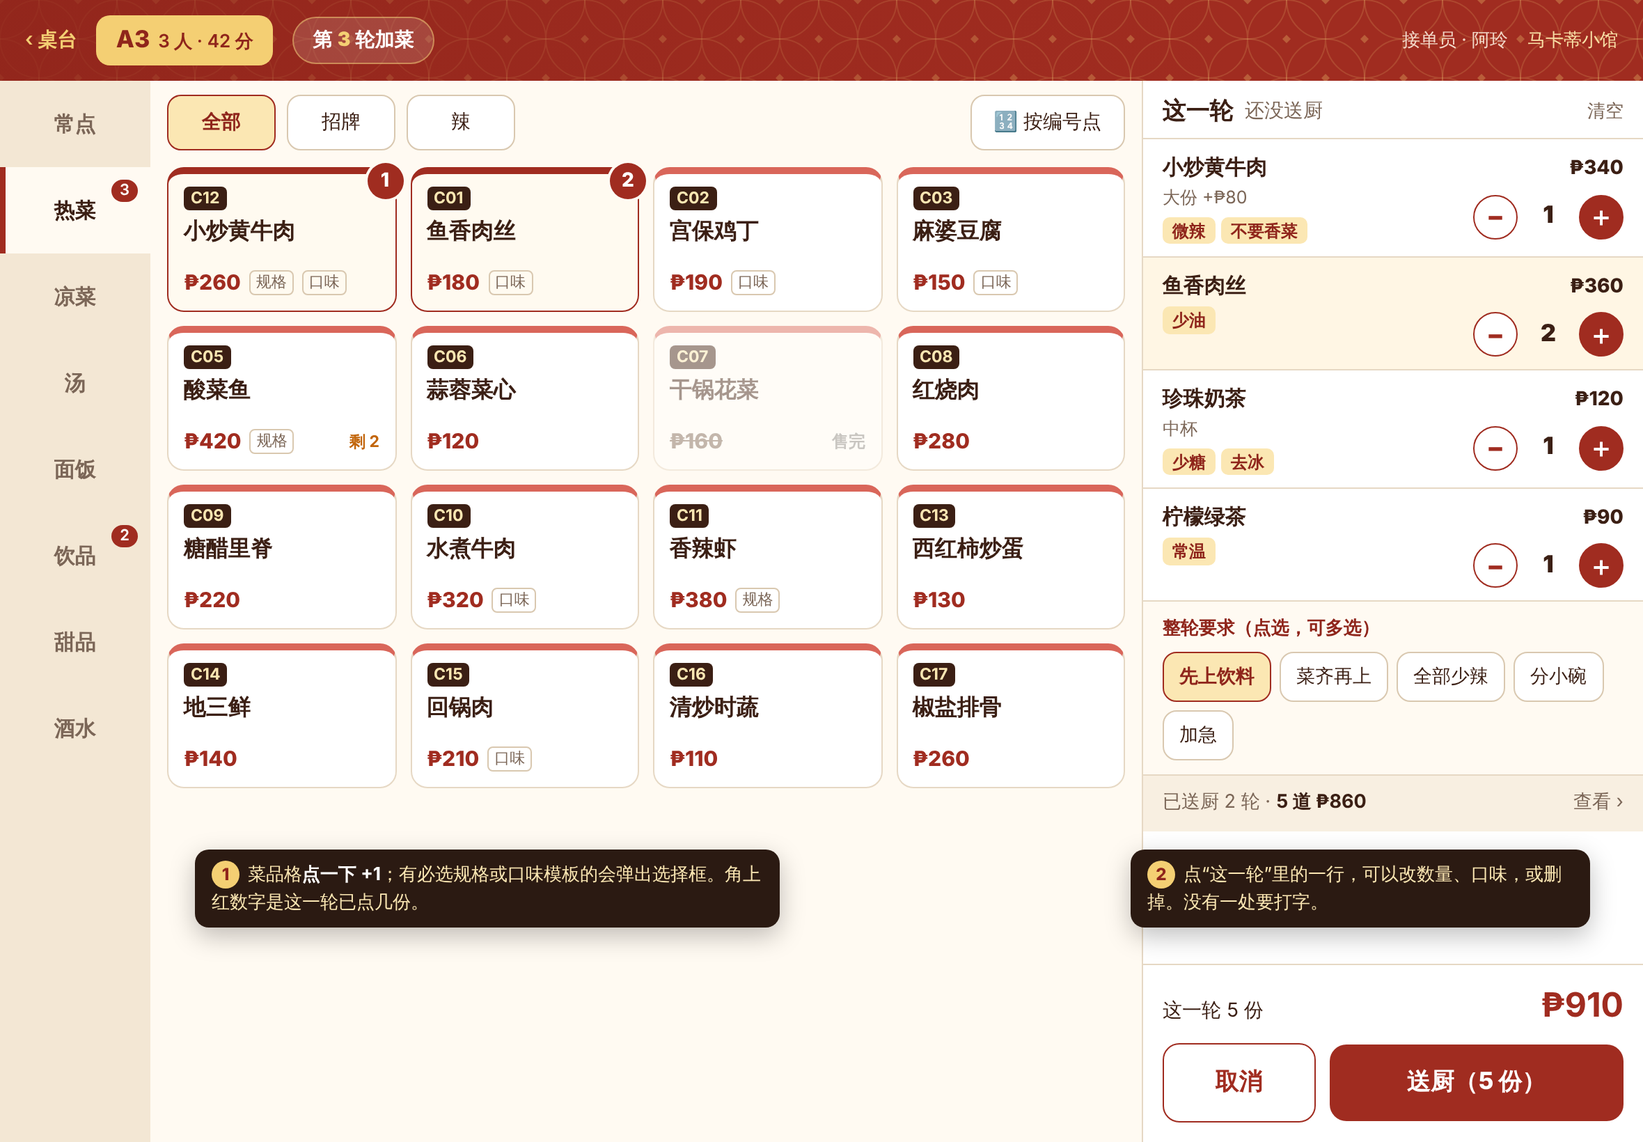
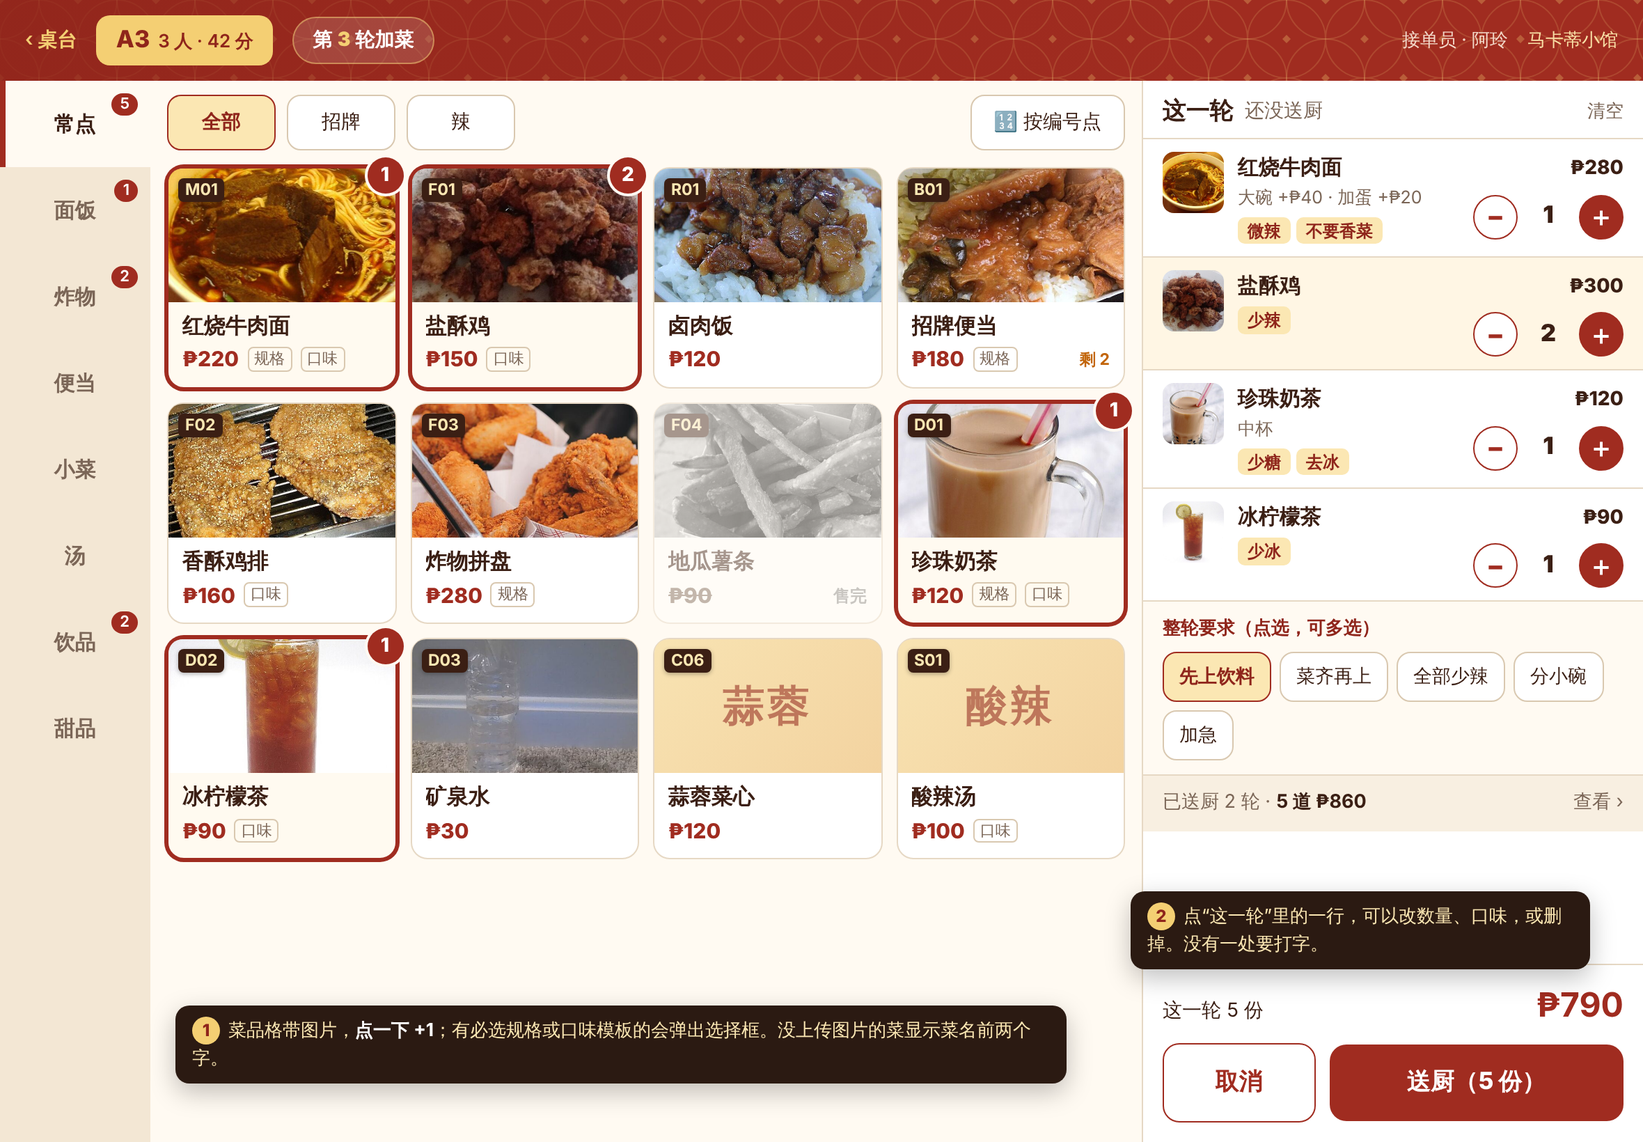
堂食模式方案：菜品格带图片
Claude-Session: https://claude.ai/code/session_0171QGWHhoGW3K3C5SJnC7j9

diff --git a/docs/dine-in-order-prototype/index.html b/docs/dine-in-order-prototype/index.html
@@ -202,6 +202,22 @@
   .note { position: absolute; z-index: 50; background: #2b1a12; color: #fbe7b3; font-size: 13px; line-height: 1.5; border-radius: 10px; padding: 8px 12px; box-shadow: 0 6px 18px rgba(0,0,0,.25); max-width: 300px; }
   .note b { color: #fff; }
   .note::before { content: attr(data-n); display: inline-grid; place-items: center; width: 20px; height: 20px; border-radius: 50%; background: var(--gold); color: var(--red-deep); font-weight: 800; font-size: 12px; margin-inline-end: 6px; }
+
+  /* 菜品格带图片 */
+  .dt { height: auto; padding: 0; border-top: 1.5px solid var(--line); overflow: visible; }
+  .dt .pic { height: 96px; border-radius: 10px 10px 0 0; background: #f3e7d4 center / cover no-repeat; }
+  .dt .pic.none { display: grid; place-items: center; background: linear-gradient(135deg, #f8e3b2, #f3d3a0); }
+  .dt .pic.none span { font-size: 30px; font-weight: 800; color: rgba(143,37,27,.55); letter-spacing: 2px; }
+  .dt .code { position: absolute; top: 7px; inset-inline-start: 7px; box-shadow: 0 1px 3px rgba(0,0,0,.3); }
+  .dt .tx { padding: 7px 10px 9px; display: flex; flex-direction: column; gap: 4px; }
+  .dt .nm { margin-top: 0; font-size: 15.5px; white-space: nowrap; overflow: hidden; text-overflow: ellipsis; }
+  .dt .n { z-index: 2; }
+  .dt.on { box-shadow: 0 0 0 2px var(--red); border-color: var(--red); }
+  .dt.out .pic { filter: grayscale(1); }
+  .ln .th { width: 44px; height: 44px; border-radius: 8px; object-fit: cover; flex: none; }
+  .pi .th { width: 60px; height: 60px; border-radius: 9px; object-fit: cover; flex: none; }
+  .pi .th.none { display: grid; place-items: center; background: #f8e3b2; color: rgba(143,37,27,.6); font-weight: 800; }
+  .mpic { height: 120px; background: center / cover no-repeat; }
 </style>
 </head>
 <body>
@@ -310,46 +326,42 @@
   </div>
   <div class="body">
     <div class="cats">
-      <div>常点</div><div class="on">热菜<i>3</i></div><div>凉菜</div><div>汤</div><div>面饭</div><div>饮品<i>2</i></div><div>甜品</div><div>酒水</div>
+      <div class="on">常点<i>5</i></div><div>面饭<i>1</i></div><div>炸物<i>2</i></div><div>便当</div><div>小菜</div><div>汤</div><div>饮品<i>2</i></div><div>甜品</div>
     </div>
     <div class="dishes">
       <div class="dbar"><span class="ch on">全部</span><span class="ch">招牌</span><span class="ch">辣</span><span class="ch" style="margin-inline-start:auto">🔢 按编号点</span></div>
       <div class="dgrid">
-        <div class="dt c2 on"><span class="n">1</span><span class="code">C12</span><span class="nm">小炒黄牛肉</span><div class="ft"><span class="pr">₱260</span><span class="mk">规格</span><span class="mk">口味</span></div></div>
-        <div class="dt c2 on"><span class="n">2</span><span class="code">C01</span><span class="nm">鱼香肉丝</span><div class="ft"><span class="pr">₱180</span><span class="mk">口味</span></div></div>
-        <div class="dt c2"><span class="code">C02</span><span class="nm">宫保鸡丁</span><div class="ft"><span class="pr">₱190</span><span class="mk">口味</span></div></div>
-        <div class="dt c2"><span class="code">C03</span><span class="nm">麻婆豆腐</span><div class="ft"><span class="pr">₱150</span><span class="mk">口味</span></div></div>
-        <div class="dt c2"><span class="code">C05</span><span class="nm">酸菜鱼</span><div class="ft"><span class="pr">₱420</span><span class="mk">规格</span><span class="left">剩 2</span></div></div>
-        <div class="dt c2"><span class="code">C06</span><span class="nm">蒜蓉菜心</span><div class="ft"><span class="pr">₱120</span></div></div>
-        <div class="dt c2 out"><span class="code">C07</span><span class="nm">干锅花菜</span><div class="ft"><span class="pr">₱160</span><span class="so">售完</span></div></div>
-        <div class="dt c2"><span class="code">C08</span><span class="nm">红烧肉</span><div class="ft"><span class="pr">₱280</span></div></div>
-        <div class="dt c2"><span class="code">C09</span><span class="nm">糖醋里脊</span><div class="ft"><span class="pr">₱220</span></div></div>
-        <div class="dt c2"><span class="code">C10</span><span class="nm">水煮牛肉</span><div class="ft"><span class="pr">₱320</span><span class="mk">口味</span></div></div>
-        <div class="dt c2"><span class="code">C11</span><span class="nm">香辣虾</span><div class="ft"><span class="pr">₱380</span><span class="mk">规格</span></div></div>
-        <div class="dt c2"><span class="code">C13</span><span class="nm">西红柿炒蛋</span><div class="ft"><span class="pr">₱130</span></div></div>
-        <div class="dt c2"><span class="code">C14</span><span class="nm">地三鲜</span><div class="ft"><span class="pr">₱140</span></div></div>
-        <div class="dt c2"><span class="code">C15</span><span class="nm">回锅肉</span><div class="ft"><span class="pr">₱210</span><span class="mk">口味</span></div></div>
-        <div class="dt c2"><span class="code">C16</span><span class="nm">清炒时蔬</span><div class="ft"><span class="pr">₱110</span></div></div>
-        <div class="dt c2"><span class="code">C17</span><span class="nm">椒盐排骨</span><div class="ft"><span class="pr">₱260</span></div></div>
+        <div class="dt on"><span class="n">1</span><div class="pic" style="background-image:url(../../web/public/demo/beef-noodle-soup.jpg)"></div><span class="code">M01</span><div class="tx"><span class="nm">红烧牛肉面</span><div class="ft"><span class="pr">₱220</span><span class="mk">规格</span><span class="mk">口味</span></div></div></div>
+        <div class="dt on"><span class="n">2</span><div class="pic" style="background-image:url(../../web/public/demo/popcorn-chicken.jpg)"></div><span class="code">F01</span><div class="tx"><span class="nm">盐酥鸡</span><div class="ft"><span class="pr">₱150</span><span class="mk">口味</span></div></div></div>
+        <div class="dt"><div class="pic" style="background-image:url(../../web/public/demo/braised-pork-rice.jpg)"></div><span class="code">R01</span><div class="tx"><span class="nm">卤肉饭</span><div class="ft"><span class="pr">₱120</span></div></div></div>
+        <div class="dt"><div class="pic" style="background-image:url(../../web/public/demo/bento.jpg)"></div><span class="code">B01</span><div class="tx"><span class="nm">招牌便当</span><div class="ft"><span class="pr">₱180</span><span class="mk">规格</span><span class="left">剩 2</span></div></div></div>
+        <div class="dt"><div class="pic" style="background-image:url(../../web/public/demo/chicken-cutlet.jpg)"></div><span class="code">F02</span><div class="tx"><span class="nm">香酥鸡排</span><div class="ft"><span class="pr">₱160</span><span class="mk">口味</span></div></div></div>
+        <div class="dt"><div class="pic" style="background-image:url(../../web/public/demo/fried-combo.jpg)"></div><span class="code">F03</span><div class="tx"><span class="nm">炸物拼盘</span><div class="ft"><span class="pr">₱280</span><span class="mk">规格</span></div></div></div>
+        <div class="dt out"><div class="pic" style="background-image:url(../../web/public/demo/sweet-potato-fries.jpg)"></div><span class="code">F04</span><div class="tx"><span class="nm">地瓜薯条</span><div class="ft"><span class="pr">₱90</span><span class="so">售完</span></div></div></div>
+        <div class="dt on"><span class="n">1</span><div class="pic" style="background-image:url(../../web/public/demo/bubble-milk-tea.jpg)"></div><span class="code">D01</span><div class="tx"><span class="nm">珍珠奶茶</span><div class="ft"><span class="pr">₱120</span><span class="mk">规格</span><span class="mk">口味</span></div></div></div>
+        <div class="dt on"><span class="n">1</span><div class="pic" style="background-image:url(../../web/public/demo/iced-lemon-tea.jpg)"></div><span class="code">D02</span><div class="tx"><span class="nm">冰柠檬茶</span><div class="ft"><span class="pr">₱90</span><span class="mk">口味</span></div></div></div>
+        <div class="dt"><div class="pic" style="background-image:url(../../web/public/demo/bottled-water.jpg)"></div><span class="code">D03</span><div class="tx"><span class="nm">矿泉水</span><div class="ft"><span class="pr">₱30</span></div></div></div>
+        <div class="dt"><div class="pic none"><span>蒜蓉</span></div><span class="code">C06</span><div class="tx"><span class="nm">蒜蓉菜心</span><div class="ft"><span class="pr">₱120</span></div></div></div>
+        <div class="dt"><div class="pic none"><span>酸辣</span></div><span class="code">S01</span><div class="tx"><span class="nm">酸辣汤</span><div class="ft"><span class="pr">₱100</span><span class="mk">口味</span></div></div></div>
       </div>
     </div>
     <div class="cart">
       <div class="chd"><h3>这一轮</h3><span class="muted">还没送厨</span><span class="clr">清空</span></div>
-      <div class="ln"><div class="lt"><b>小炒黄牛肉</b><div class="opt">大份 +₱80</div><div class="tags"><span>微辣</span><span>不要香菜</span></div></div><div class="lp">₱340<div class="stp s"><i>−</i><b>1</b><i class="f">＋</i></div></div></div>
-      <div class="ln on"><div class="lt"><b>鱼香肉丝</b><div class="tags"><span>少油</span></div></div><div class="lp">₱360<div class="stp s"><i>−</i><b>2</b><i class="f">＋</i></div></div></div>
-      <div class="ln"><div class="lt"><b>珍珠奶茶</b><div class="opt">中杯</div><div class="tags"><span>少糖</span><span>去冰</span></div></div><div class="lp">₱120<div class="stp s"><i>−</i><b>1</b><i class="f">＋</i></div></div></div>
-      <div class="ln"><div class="lt"><b>柠檬绿茶</b><div class="tags"><span>常温</span></div></div><div class="lp">₱90<div class="stp s"><i>−</i><b>1</b><i class="f">＋</i></div></div></div>
+      <div class="ln"><img class="th" src="../../web/public/demo/beef-noodle-soup.jpg"><div class="lt"><b>红烧牛肉面</b><div class="opt">大碗 +₱40 · 加蛋 +₱20</div><div class="tags"><span>微辣</span><span>不要香菜</span></div></div><div class="lp">₱280<div class="stp s"><i>−</i><b>1</b><i class="f">＋</i></div></div></div>
+      <div class="ln on"><img class="th" src="../../web/public/demo/popcorn-chicken.jpg"><div class="lt"><b>盐酥鸡</b><div class="tags"><span>少辣</span></div></div><div class="lp">₱300<div class="stp s"><i>−</i><b>2</b><i class="f">＋</i></div></div></div>
+      <div class="ln"><img class="th" src="../../web/public/demo/bubble-milk-tea.jpg"><div class="lt"><b>珍珠奶茶</b><div class="opt">中杯</div><div class="tags"><span>少糖</span><span>去冰</span></div></div><div class="lp">₱120<div class="stp s"><i>−</i><b>1</b><i class="f">＋</i></div></div></div>
+      <div class="ln"><img class="th" src="../../web/public/demo/iced-lemon-tea.jpg"><div class="lt"><b>冰柠檬茶</b><div class="tags"><span>少冰</span></div></div><div class="lp">₱90<div class="stp s"><i>−</i><b>1</b><i class="f">＋</i></div></div></div>
       <div class="whole"><div class="wl">整轮要求（点选，可多选）</div>
         <div class="chs"><span class="ch on">先上饮料</span><span class="ch">菜齐再上</span><span class="ch">全部少辣</span><span class="ch">分小碗</span><span class="ch">加急</span></div></div>
       <div class="sent">已送厨 2 轮 · <b>5 道 ₱860</b><span style="margin-inline-start:auto">查看 ›</span></div>
       <div class="cfoot">
-        <div class="tt"><span>这一轮 5 份</span><b>₱910</b></div>
+        <div class="tt"><span>这一轮 5 份</span><b>₱790</b></div>
         <div class="row"><div class="bigbtn ghost">取消</div><div class="bigbtn">送厨（5 份）</div></div>
       </div>
     </div>
   </div>
-  <div class="note" data-n="1" style="left:140px;top:610px;max-width:420px">菜品格<b>点一下 +1</b>；有必选规格或口味模板的会弹出选择框。角上红数字是这一轮已点几份。</div>
-  <div class="note" data-n="2" style="left:812px;top:610px;max-width:330px">点“这一轮”里的一行，可以改数量、口味，或删掉。没有一处要打字。</div>
+  <div class="note" data-n="1" style="left:126px;top:722px;max-width:640px">菜品格带图片，<b>点一下 +1</b>；有必选规格或口味模板的会弹出选择框。没上传图片的菜显示菜名前两个字。</div>
+  <div class="note" data-n="2" style="left:812px;top:640px;max-width:330px">点“这一轮”里的一行，可以改数量、口味，或删掉。没有一处要打字。</div>
 </div>
 </section>
 
@@ -361,7 +373,7 @@
     <span class="sp"></span><span class="who">接单员 · 阿玲</span><span class="shop">马卡蒂小馆</span>
   </div>
   <div class="body">
-    <div class="cats"><div>常点</div><div class="on">热菜</div><div>凉菜</div><div>汤</div><div>面饭</div><div>饮品</div><div>甜品</div></div>
+    <div class="cats"><div class="on">常点</div><div>面饭</div><div>炸物</div><div>便当</div><div>小菜</div><div>汤</div><div>饮品</div></div>
     <div class="dishes"><div class="dgrid">
       <div class="dt c2"></div><div class="dt c2"></div><div class="dt c2"></div><div class="dt c2"></div>
       <div class="dt c2"></div><div class="dt c2"></div><div class="dt c2"></div><div class="dt c2"></div>
@@ -369,13 +381,13 @@
     <div class="cart"></div>
   </div>
   <div class="mask"></div>
-  <div class="modal" style="left:200px;top:70px;width:780px">
-    <div class="mh"><span class="code" style="font-size:12px;font-weight:700;background:var(--ink);color:var(--gold-soft);border-radius:4px;padding:1px 6px">C05</span><h3>酸菜鱼</h3><span style="color:var(--red);font-weight:800;font-size:18px">₱420 起</span><span class="x">✕</span></div>
-    <div class="mb" style="display:grid;gap:16px">
+  <div class="modal" style="left:200px;top:24px;width:780px">
+    <div class="mpic" style="background-image:url(../../web/public/demo/beef-noodle-soup.jpg)"></div><div class="mh"><span class="code" style="font-size:12px;font-weight:700;background:var(--ink);color:var(--gold-soft);border-radius:4px;padding:1px 6px">M01</span><h3>红烧牛肉面</h3><span style="color:var(--red);font-weight:800;font-size:18px">₱220 起</span><span class="x">✕</span></div>
+    <div class="mb" style="display:grid;gap:12px;padding-top:12px">
       <div><div class="lbl">份量 <span class="req">必选</span></div>
-        <div class="chs"><span class="ch">小份 <small>₱420</small></span><span class="ch on">大份 <small>+₱120</small></span></div></div>
-      <div><div class="lbl">鱼片 <small>可多选，加价</small></div>
-        <div class="chs"><span class="ch">加鱼片 <small>+₱80</small></span><span class="ch">加豆芽 <small>+₱20</small></span><span class="ch on">加粉丝 <small>+₱20</small></span></div></div>
+        <div class="chs"><span class="ch">小碗 <small>₱220</small></span><span class="ch on">大碗 <small>+₱40</small></span></div></div>
+      <div><div class="lbl">加料 <small>可多选，加价</small></div>
+        <div class="chs"><span class="ch">加牛肉 <small>+₱80</small></span><span class="ch on">加蛋 <small>+₱20</small></span><span class="ch">加面 <small>+₱20</small></span></div></div>
       <div style="border-top:1px dashed var(--line);padding-top:14px"><div class="lbl">辣度 <small>口味模板 · 单选，不加钱</small></div>
         <div class="chs"><span class="ch">不辣</span><span class="ch on">微辣</span><span class="ch">中辣</span><span class="ch">特辣</span></div></div>
       <div><div class="lbl">忌口 <small>可多选</small></div>
@@ -383,8 +395,8 @@
     </div>
     <div class="mf">
       <div class="stp"><i>−</i><b>1</b><i class="f">＋</i></div>
-      <div style="flex:1;color:var(--muted);font-size:13px;padding:0 8px">大份 · 加粉丝 · 微辣 · 不要香菜</div>
-      <div class="bigbtn" style="width:240px">加入这一轮 ₱560</div>
+      <div style="flex:1;color:var(--muted);font-size:13px;padding:0 8px">大碗 · 加蛋 · 微辣 · 不要香菜</div>
+      <div class="bigbtn" style="width:240px">加入这一轮 ₱280</div>
     </div>
   </div>
   <div class="note" data-n="3" style="left:996px;top:330px;max-width:170px">必选的没选，“加入”按钮是灰的，并把那一组标红。</div>
@@ -456,20 +468,19 @@
   <div class="ph-wrap"><div class="phone">
     <div class="top"><span class="back">‹</span><span class="tablechip" style="font-size:15px">A3<small>3 人</small></span><span class="pill" style="font-size:13px">第 3 轮加菜</span></div>
     <div class="body">
-      <div class="cats" style="width:82px"><div style="height:54px;font-size:14px">常点</div><div class="on" style="height:54px;font-size:14px">热菜<i>3</i></div><div style="height:54px;font-size:14px">凉菜</div><div style="height:54px;font-size:14px">汤</div><div style="height:54px;font-size:14px">面饭</div><div style="height:54px;font-size:14px">饮品<i>2</i></div><div style="height:54px;font-size:14px">甜品</div></div>
+      <div class="cats" style="width:82px"><div class="on" style="height:54px;font-size:14px">常点<i>5</i></div><div style="height:54px;font-size:14px">面饭</div><div style="height:54px;font-size:14px">炸物</div><div style="height:54px;font-size:14px">便当</div><div style="height:54px;font-size:14px">汤</div><div style="height:54px;font-size:14px">饮品<i>2</i></div><div style="height:54px;font-size:14px">甜品</div></div>
       <div class="plist">
-        <div class="pi"><div><span class="code">C12</span> <span class="nm">小炒黄牛肉</span><div class="pr">₱260 <span class="mk">规格</span></div></div><div class="r"><span class="sel">选规格 <b style="background:var(--gold);color:var(--red-deep);border-radius:9px;padding:0 5px">1</b></span></div></div>
-        <div class="pi"><div><span class="code">C01</span> <span class="nm">鱼香肉丝</span><div class="pr">₱180 <span class="mk">口味</span></div></div><div class="r"><div class="stp s"><i>−</i><b>2</b><i class="f">＋</i></div></div></div>
-        <div class="pi"><div><span class="code">C02</span> <span class="nm">宫保鸡丁</span><div class="pr">₱190 <span class="mk">口味</span></div></div><div class="r"><div class="stp s"><i class="f">＋</i></div></div></div>
-        <div class="pi"><div><span class="code">C03</span> <span class="nm">麻婆豆腐</span><div class="pr">₱150</div></div><div class="r"><div class="stp s"><i class="f">＋</i></div></div></div>
-        <div class="pi"><div><span class="code">C05</span> <span class="nm">酸菜鱼</span><div class="pr">₱420 <span class="mk">规格</span></div></div><div class="r"><span class="sel">选规格</span></div></div>
-        <div class="pi"><div><span class="code">C06</span> <span class="nm">蒜蓉菜心</span><div class="pr">₱120</div></div><div class="r"><div class="stp s"><i class="f">＋</i></div></div></div>
-        <div class="pi" style="opacity:.45"><div><span class="code">C07</span> <span class="nm">干锅花菜</span><div class="pr">₱160</div></div><div class="r muted">售完</div></div>
-        <div class="pi"><div><span class="code">C08</span> <span class="nm">红烧肉</span><div class="pr">₱280</div></div><div class="r"><div class="stp s"><i class="f">＋</i></div></div></div>
-        <div class="pi"><div><span class="code">C09</span> <span class="nm">糖醋里脊</span><div class="pr">₱220</div></div><div class="r"><div class="stp s"><i class="f">＋</i></div></div></div>
+        <div class="pi"><img class="th" src="../../web/public/demo/beef-noodle-soup.jpg"><div><span class="code">M01</span> <span class="nm">红烧牛肉面</span><div class="pr">₱220 <span class="mk">规格</span><span class="mk">口味</span></div></div><div class="r"><span class="sel">选规格 <b style="background:var(--gold);color:var(--red-deep);border-radius:9px;padding:0 5px">1</b></span></div></div>
+        <div class="pi"><img class="th" src="../../web/public/demo/popcorn-chicken.jpg"><div><span class="code">F01</span> <span class="nm">盐酥鸡</span><div class="pr">₱150 <span class="mk">口味</span></div></div><div class="r"><div class="stp s"><i>−</i><b>2</b><i class="f">＋</i></div></div></div>
+        <div class="pi"><img class="th" src="../../web/public/demo/braised-pork-rice.jpg"><div><span class="code">R01</span> <span class="nm">卤肉饭</span><div class="pr">₱120 </div></div><div class="r"><div class="stp s"><i class="f">＋</i></div></div></div>
+        <div class="pi"><img class="th" src="../../web/public/demo/bento.jpg"><div><span class="code">B01</span> <span class="nm">招牌便当</span><div class="pr">₱180 <span class="mk">规格</span></div></div><div class="r"><span class="sel">选规格</span></div></div>
+        <div class="pi"><img class="th" src="../../web/public/demo/chicken-cutlet.jpg"><div><span class="code">F02</span> <span class="nm">香酥鸡排</span><div class="pr">₱160 <span class="mk">口味</span></div></div><div class="r"><div class="stp s"><i class="f">＋</i></div></div></div>
+        <div class="pi"><img class="th" src="../../web/public/demo/fried-combo.jpg"><div><span class="code">F03</span> <span class="nm">炸物拼盘</span><div class="pr">₱280 <span class="mk">规格</span></div></div><div class="r"><span class="sel">选规格</span></div></div>
+        <div class="pi" style="opacity:.45"><img class="th" src="../../web/public/demo/sweet-potato-fries.jpg"><div><span class="code">F04</span> <span class="nm">地瓜薯条</span><div class="pr">₱90 </div></div><div class="r muted">售完</div></div>
+        <div class="pi"><img class="th" src="../../web/public/demo/bubble-milk-tea.jpg"><div><span class="code">D01</span> <span class="nm">珍珠奶茶</span><div class="pr">₱120 <span class="mk">规格</span><span class="mk">口味</span></div></div><div class="r"><span class="sel">选规格 <b style="background:var(--gold);color:var(--red-deep);border-radius:9px;padding:0 5px">1</b></span></div></div>
       </div>
     </div>
-    <div class="pbar"><span>这一轮</span><span class="n">5 份</span><b style="font-size:18px">₱910</b><span class="go">送厨</span></div>
+    <div class="pbar"><span>这一轮</span><span class="n">5 份</span><b style="font-size:18px">₱790</b><span class="go">送厨</span></div>
   </div><span class="cap2">② 点菜：左分类，右边点“＋”</span></div>
 
   <div class="ph-wrap"><div class="phone">
